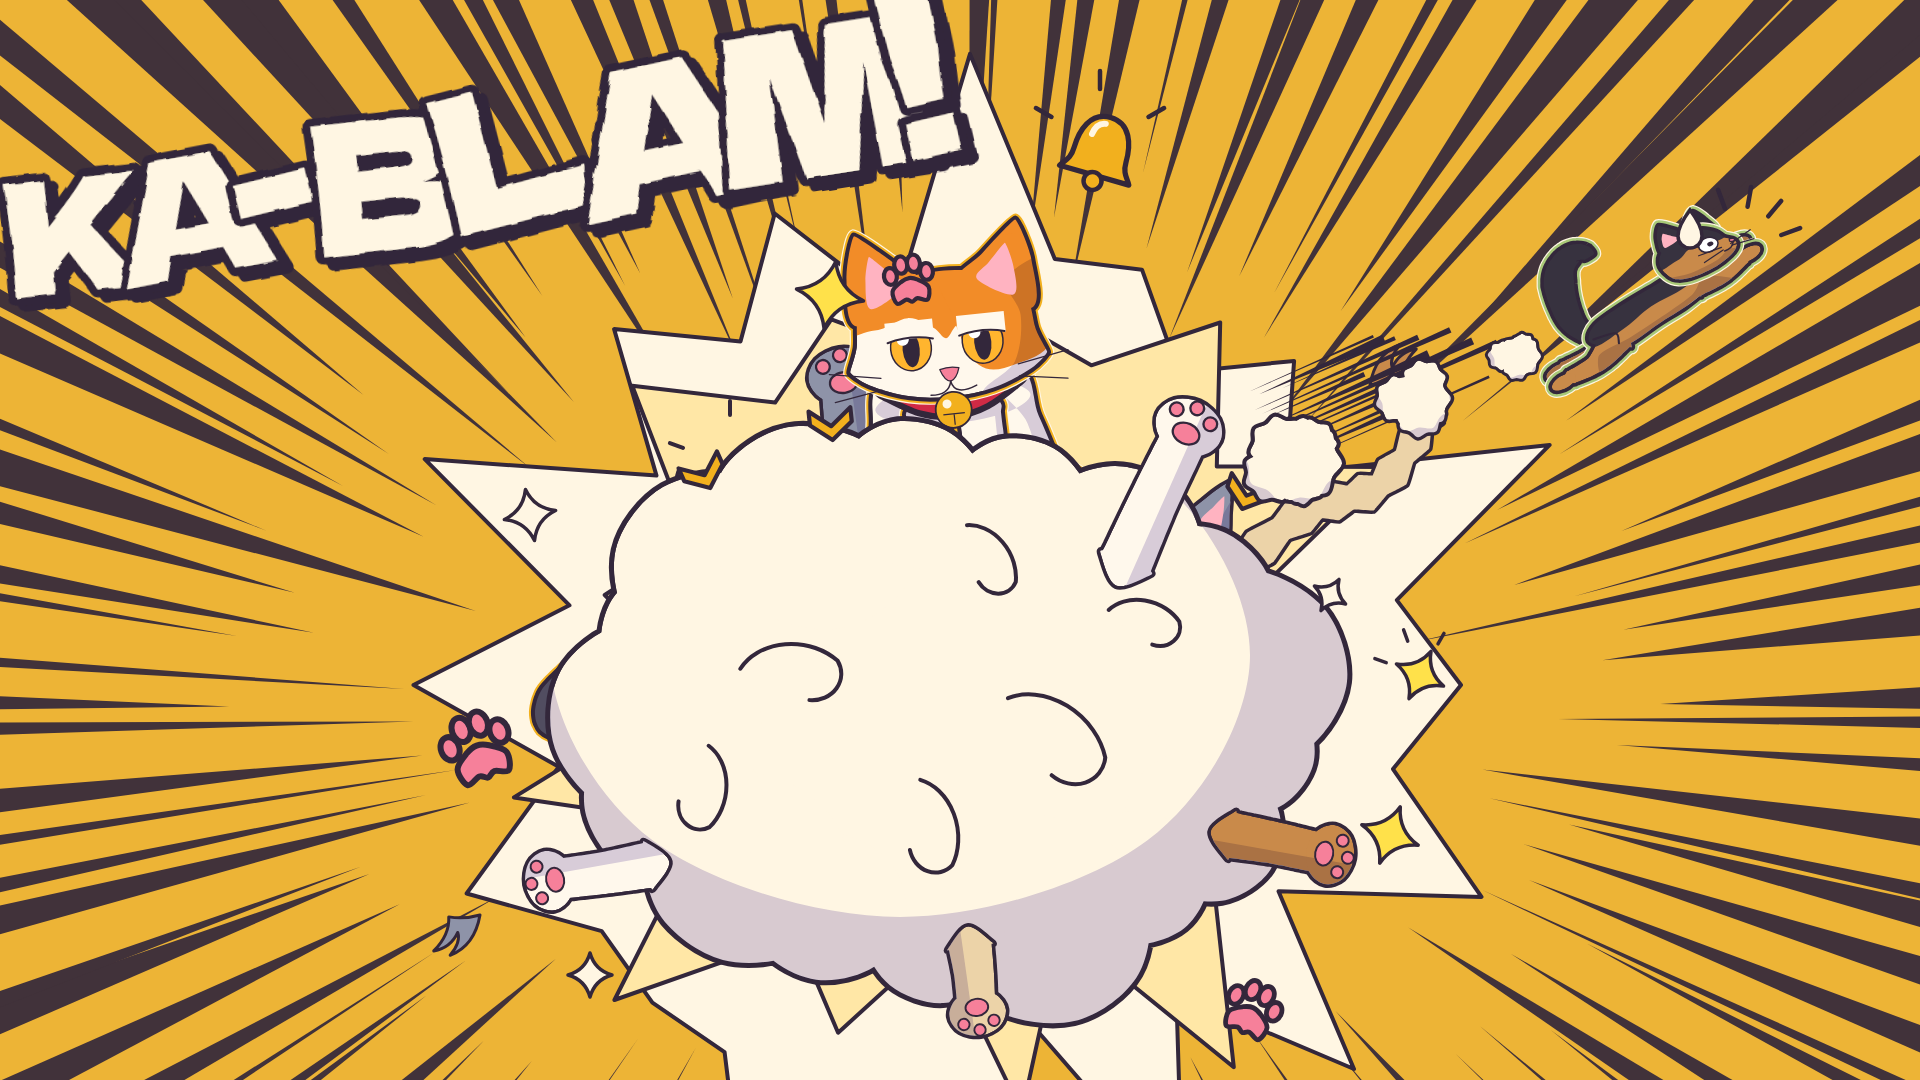
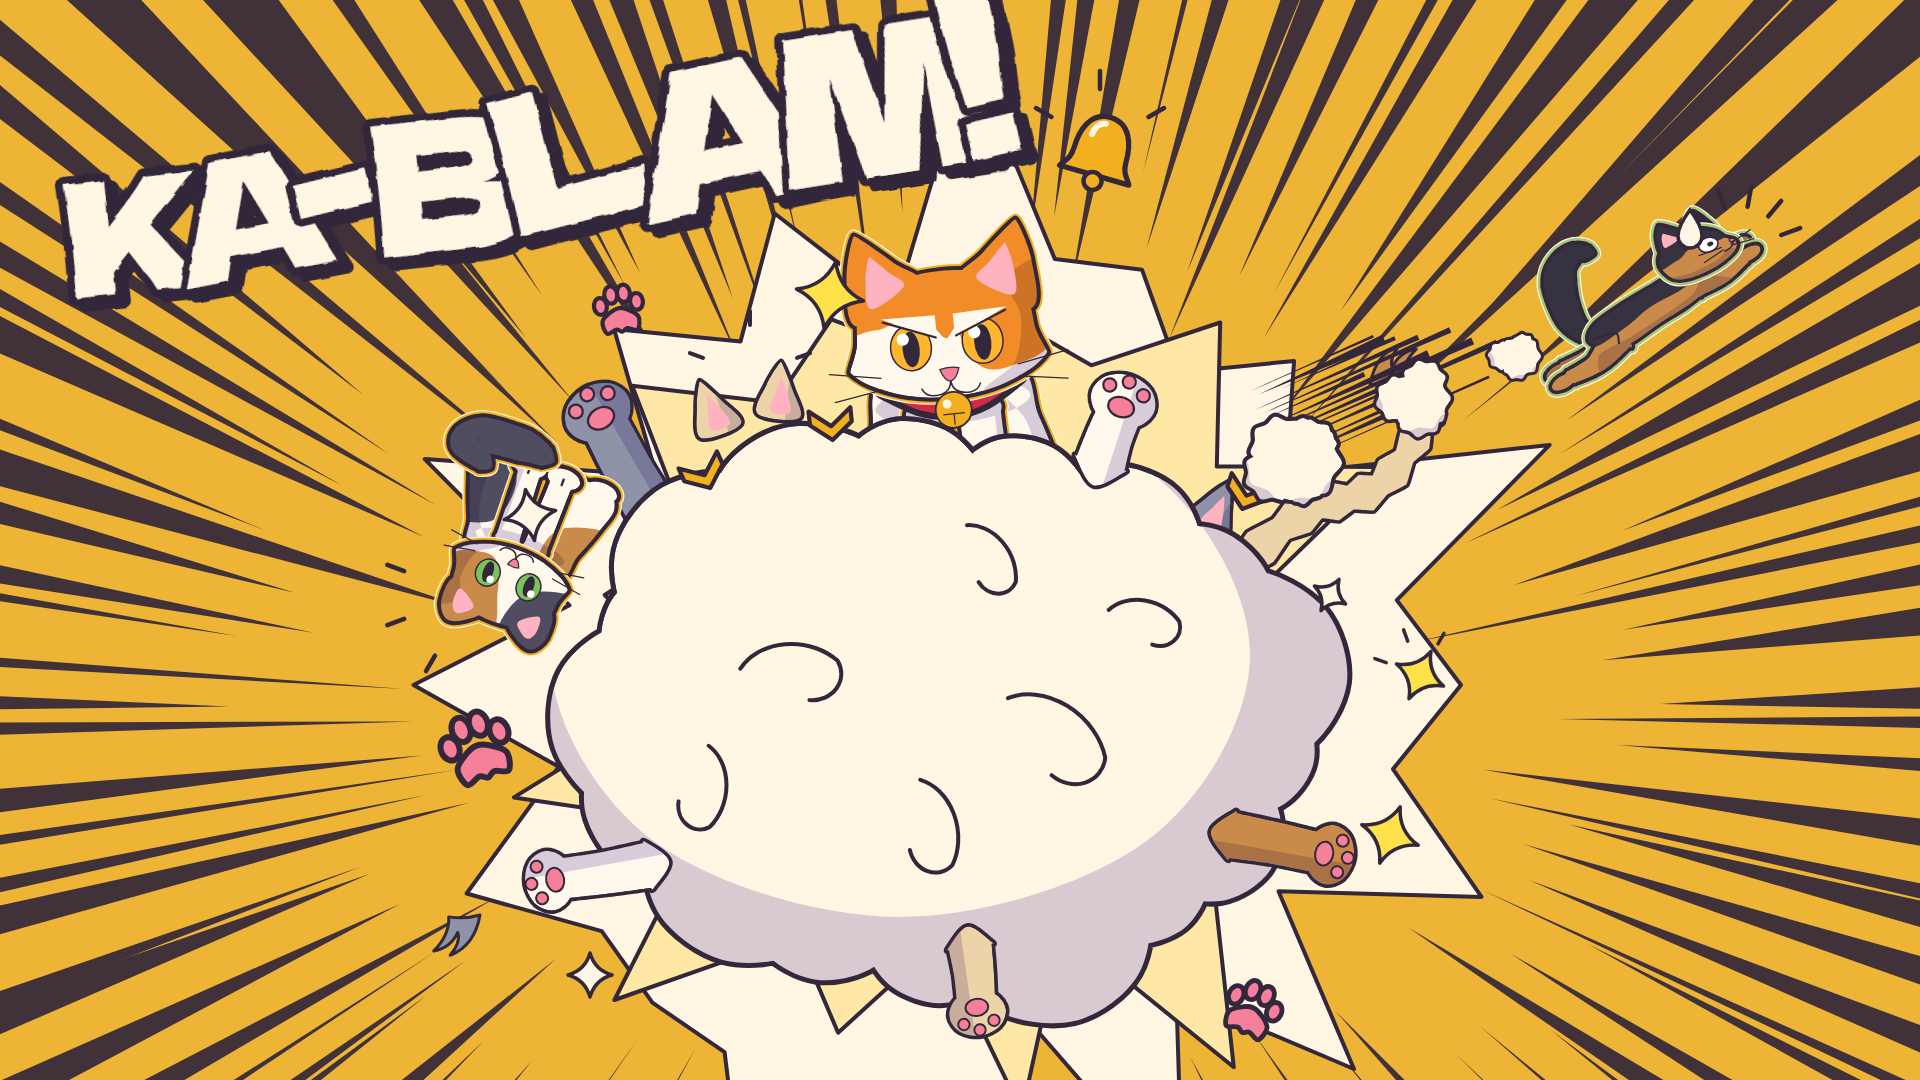
docs: preview frame fixes in progress
Claude-Session: https://claude.ai/code/session_01K9BzCtu5ca2nRxDXecreHZ

diff --git a/design/previews/04-combat-pile-on.html b/design/previews/04-combat-pile-on.html
@@ -70,14 +70,13 @@ const eyes = (x, y, sc, col, mood) => { const e = (ex) => mood === 'happy' ? `<p
 const COAT = { mikan: { fur: '#FFF8EC', pad: C.pad }, mikanG: { fur: C.ginger }, goof: { fur: '#FFF8EC', patch: '#C98A4A', patch2: '#514D60' }, gin: { fur: '#CDD1DC' }, kin: { fur: '#E3C39A', point: '#5E4636' }, toge: { fur: '#F4DDAA' } };
 
 // behind the cloud
-s.push(ear(cc.x - 250, cc.y - 200, -20, '#ECD3A8', C.purr).replace('scale', 'scale') + ear(cc.x - 190, cc.y - 222, 6, '#ECD3A8', C.purr));   // Kinako's huge ears, hiding in the boil
-s.push(K.ticks({ x: cc.x - 220, y: cc.y - 250, r: 50, n: 3, a0: -160, a1: -20, len: 14, lw: 4 }));   // ...and trembling
+s.push(ear(cc.x - 230, cc.y - 290, -20, '#ECD3A8', C.purr).replace('scale', 'scale') + ear(cc.x - 170, cc.y - 305, 6, '#ECD3A8', C.purr));   // Kinako's huge ears, hiding in the boil
+s.push(K.ticks({ x: cc.x - 200, y: cc.y - 340, r: 50, n: 3, a0: -160, a1: -20, len: 14, lw: 4 }));   // ...and trembling
 s.push(K.celGroup({ parts: [{ d: K.tube([[cc.x + 260, cc.y - 120], [cc.x + 350, cc.y - 200], [cc.x + 430, cc.y - 230], [cc.x + 480, cc.y - 300]], [26, 28, 26, 18], { zig: 6, per: 5 }), fill: '#ECD3A8' }], shade: '' }, { lw: 3.5, ol: K.OUTLINES.ink }));    // Kinako's tail, bottle-brushed with fright
-s.push(coatPaw(cc.x - 90, cc.y - 200, -8, 110, CREW.hige.coat.base, C.pad, 1.15));    // Hige's big grey paw, planted high and steady
+s.push(coatPaw(cc.x - 290, cc.y - 190, -30, 100, CREW.hige.coat.base, C.pad, 1.15));    // Hige's big grey paw, planted high and steady
 s.push(ear(cc.x + 260, cc.y - 190, 30, CREW.hige.coat.base, C.purr));               // Hige's torn ear
 // heads popping out of the boil (bodies hidden by the cloud drawn over them)
-s.push(`<g transform="translate(${cc.x + 20} ${cc.y - 150}) rotate(-6)">${K.cat({ ...K.CAST.mikan, pose: 'front-sit', expr: 'smug', outline: 'gold', x: 0, y: 0, scale: 3.0, shadow: false, lw: 4 })}</g>`);
-s.push(`<g transform="translate(${cc.x - 330} ${cc.y - 60}) rotate(140)">${K.cat({ ...CREW.pon, pose: 'front-sit', expr: 'neutral', outline: 'gold', x: 0, y: 0, scale: 1.8, shadow: false, lw: 4 })}</g>`);
+s.push(`<g transform="translate(${cc.x + 20} ${cc.y - 150}) rotate(-6)">${K.cat({ ...K.CAST.mikan, pose: 'front-sit', expr: 'angry', outline: 'gold', x: 0, y: 0, scale: 3.0, shadow: false, lw: 4 })}</g>`);
 s.push(pomTail(cc.x + 330, cc.y + 10, 40));                                                                   // Mikan's pom tail
 
 /* ---------- THE CLOUD: big scalloped cel, Paper Cream, lavender shade, 5 px Ink line ---------- */
@@ -94,12 +93,15 @@ s.push(pomTail(cc.x + 330, cc.y + 10, 40));                                     
 s.push(coatPaw(cc.x - 300, cc.y + 150, -100, 90, COAT.mikan.fur, C.pad, 1.0));     // Mikan's white sock paw, swiping out left
 s.push(coatPaw(cc.x + 280, cc.y + 120, 100, 90, COAT.goof.patch, C.pad, 1.0));   // Goofball's marmalade paw
 s.push(coatPaw(cc.x + 20, cc.y + 230, 172, 60, '#ECD3A8', C.pad, 0.95));     // Kinako's foot kicking down
-// Mikan's fist-pump paw, punched up out of the cloud
-s.push(coatPaw(cc.x + 175, cc.y - 150, 24, 120, '#FFF8EC', C.pad, 1.15));
+// Pon tumbling out tail-first, upside down and delighted (Goofball flourish)
+s.push(`<g transform="translate(${cc.x - 400} ${cc.y - 250}) rotate(200)">${K.cat({ ...CREW.pon, pose: 'front-sit', expr: 'neutral', outline: 'gold', x: 0, y: 0, scale: 1.7, shadow: false, lw: 4 })}</g>`);
+s.push(K.ticks({ x: cc.x - 480, y: cc.y - 120, r: 70, n: 3, a0: 120, a1: 200, len: 18, lw: 4.5 }));
+// Mikan's fist-pump paw beside her face
+s.push(coatPaw(cc.x + 150, cc.y - 250, 18, 50, '#FFF8EC', C.pad, 1.1));
 // a second flying tuft (Hige's grey)
 s.push(`<g transform="translate(${cc.x - 470} ${cc.y + 200}) rotate(150)">${K.inked('M0 0q20 -24 46 -20q-16 6 -18 16q14 -10 30 -4q-22 6 -30 22q-12 -10 -28 -14z', CREW.hige.coat.base, 3)}</g>`);
 s.push(star(cc.x - 120, cc.y - 420, 34, C.staticYellow, 10) + star(cc.x - 420, cc.y - 200, 26, cream, -10) + star(cc.x + 440, cc.y + 120, 30, C.staticYellow, 20) + star(cc.x - 360, cc.y + 260, 22, cream, 0) + star(cc.x + 380, cc.y - 120, 18, cream, 30));
-s.push(padGlyph(cc.x - 470, cc.y + 40, 2.0, -20) + padGlyph(cc.x + 300, cc.y + 300, 1.6, 24) + padGlyph(cc.x - 40, cc.y - 430, 1.4, -8));
+s.push(padGlyph(cc.x - 470, cc.y + 40, 2.0, -20) + padGlyph(cc.x + 300, cc.y + 300, 1.6, 24) + padGlyph(cc.x - 330, cc.y - 400, 1.4, -8));
 // a flying tuft (Togemaru's black-and-tan fur)
 s.push(`<g transform="translate(${cc.x + 420} ${cc.y - 330}) rotate(-30)">${K.inked('M0 0q20 -24 46 -20q-16 6 -18 16q14 -10 30 -4q-22 6 -30 22q-12 -10 -28 -14z', '#C98A4A', 3)}</g>`);
 // chevron ticks + the controlled cat's bell bobbing on top
@@ -127,7 +129,7 @@ function sfx(o) {
   const off = o.size * 0.045;
   return `<g class="k-vfx k-sfx" transform="translate(${o.x} ${o.y}) rotate(${o.rot}) translate(${-x / 2} 0)" font-family="'Dela Gothic One',sans-serif" filter="url(#k-dry)">${layer(o.color, o.size * 0.07, off, off)}${layer(cream, o.size * 0.085, 0, 0)}</g>`;
 }
-s.push(sfx({ text: 'KA-BLAM!', x: 500, y: 225, size: 185, rot: -9, grow: 1.35, seed: 5 }));
+s.push(sfx({ text: 'KA-BLAM!', x: 560, y: 225, size: 185, rot: -9, grow: 1.35, seed: 5 }));
 
 document.getElementById('stage').innerHTML = K.svg(W, H, s.join(''), 'class="k-world"');
 </script>
